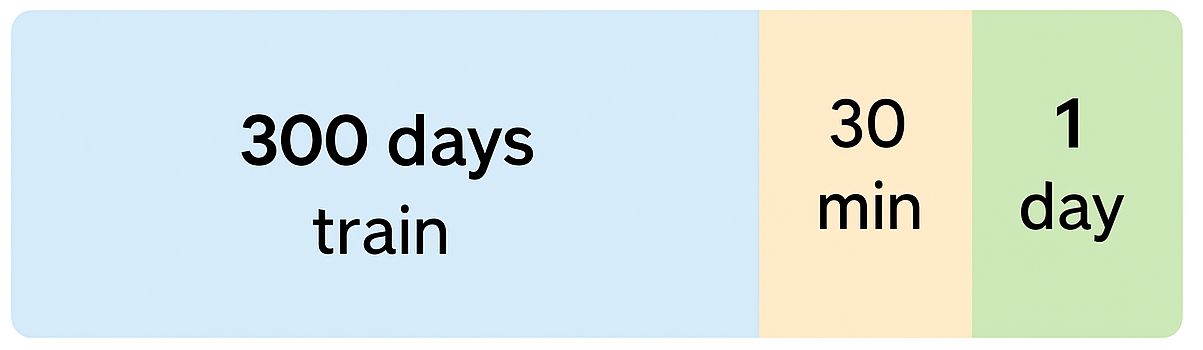
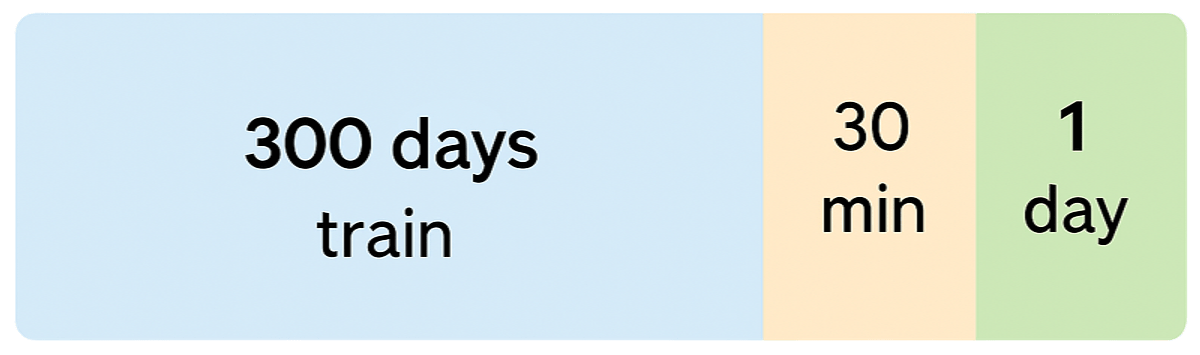
docs(readme): add img split data

diff --git a/README.md b/README.md
@@ -50,7 +50,7 @@
 
 Чтобы избежать утечки данных (data leakage), между train и test добавляют временной зазор (gap). В оригинальной статье используется схема:. 
 
-<img src="./img/train-test-split2.png" height="150">
+<img src="./img/train-test-split2.png" height="100">
 
 Так как планируется для banchmark брать результаты из исходой статьи - то будет использоваться такая же разбивка.
 
